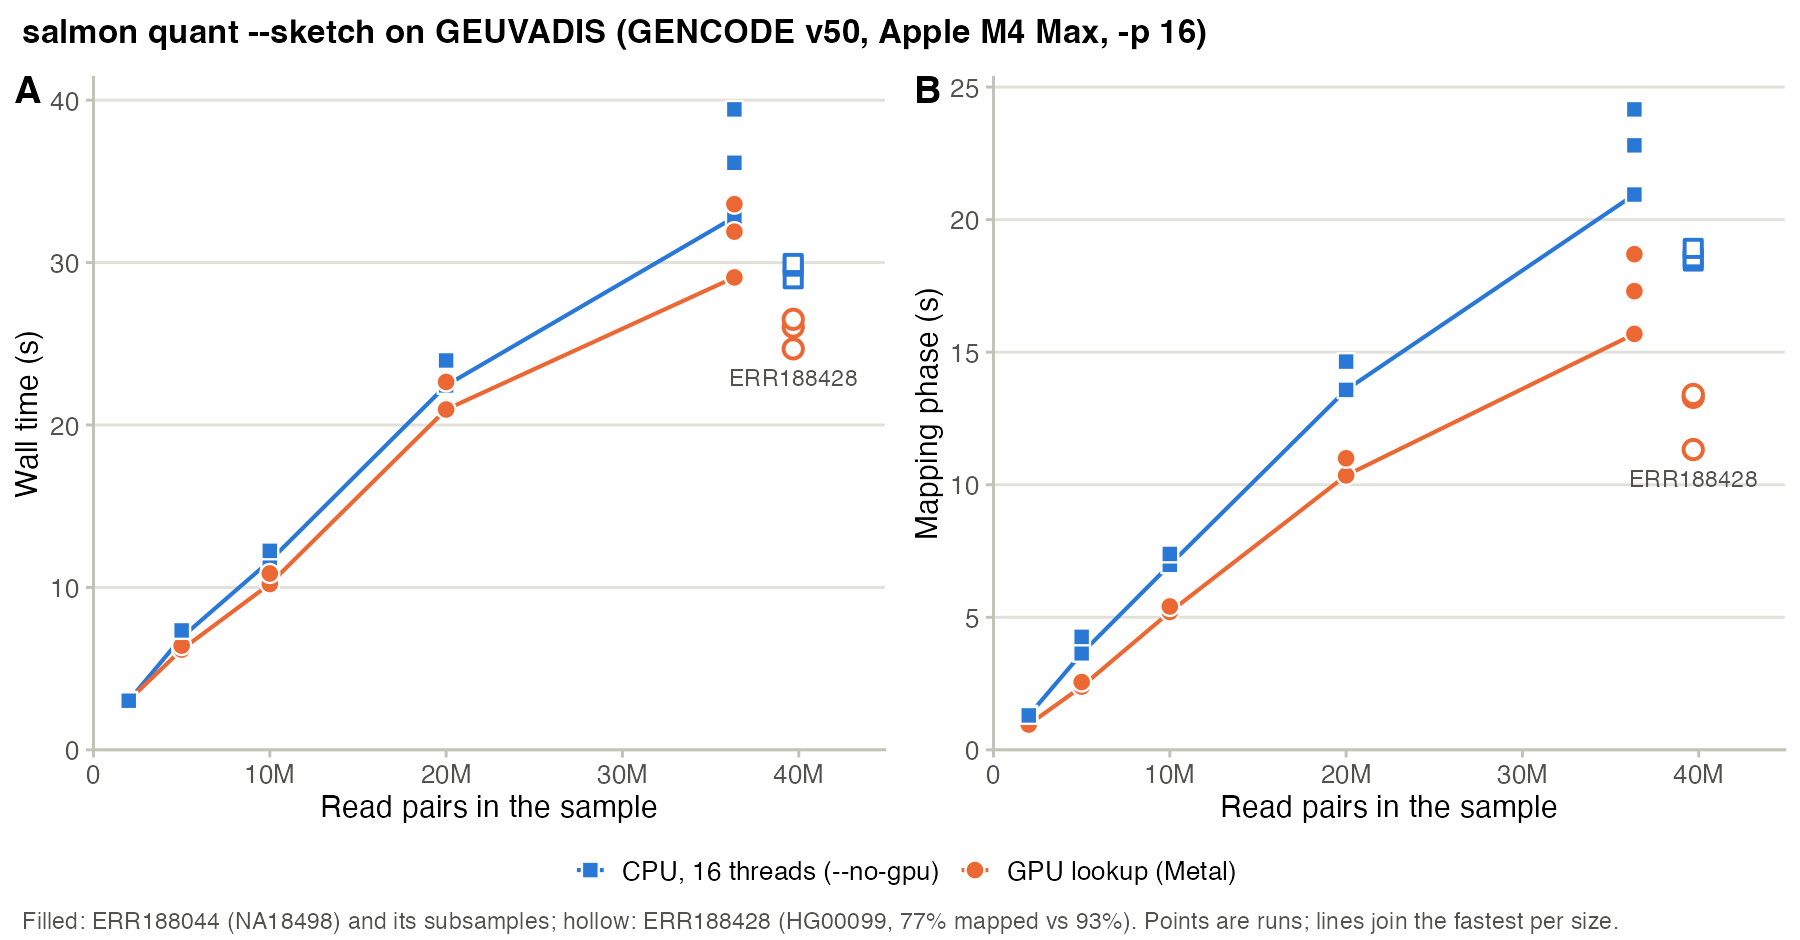
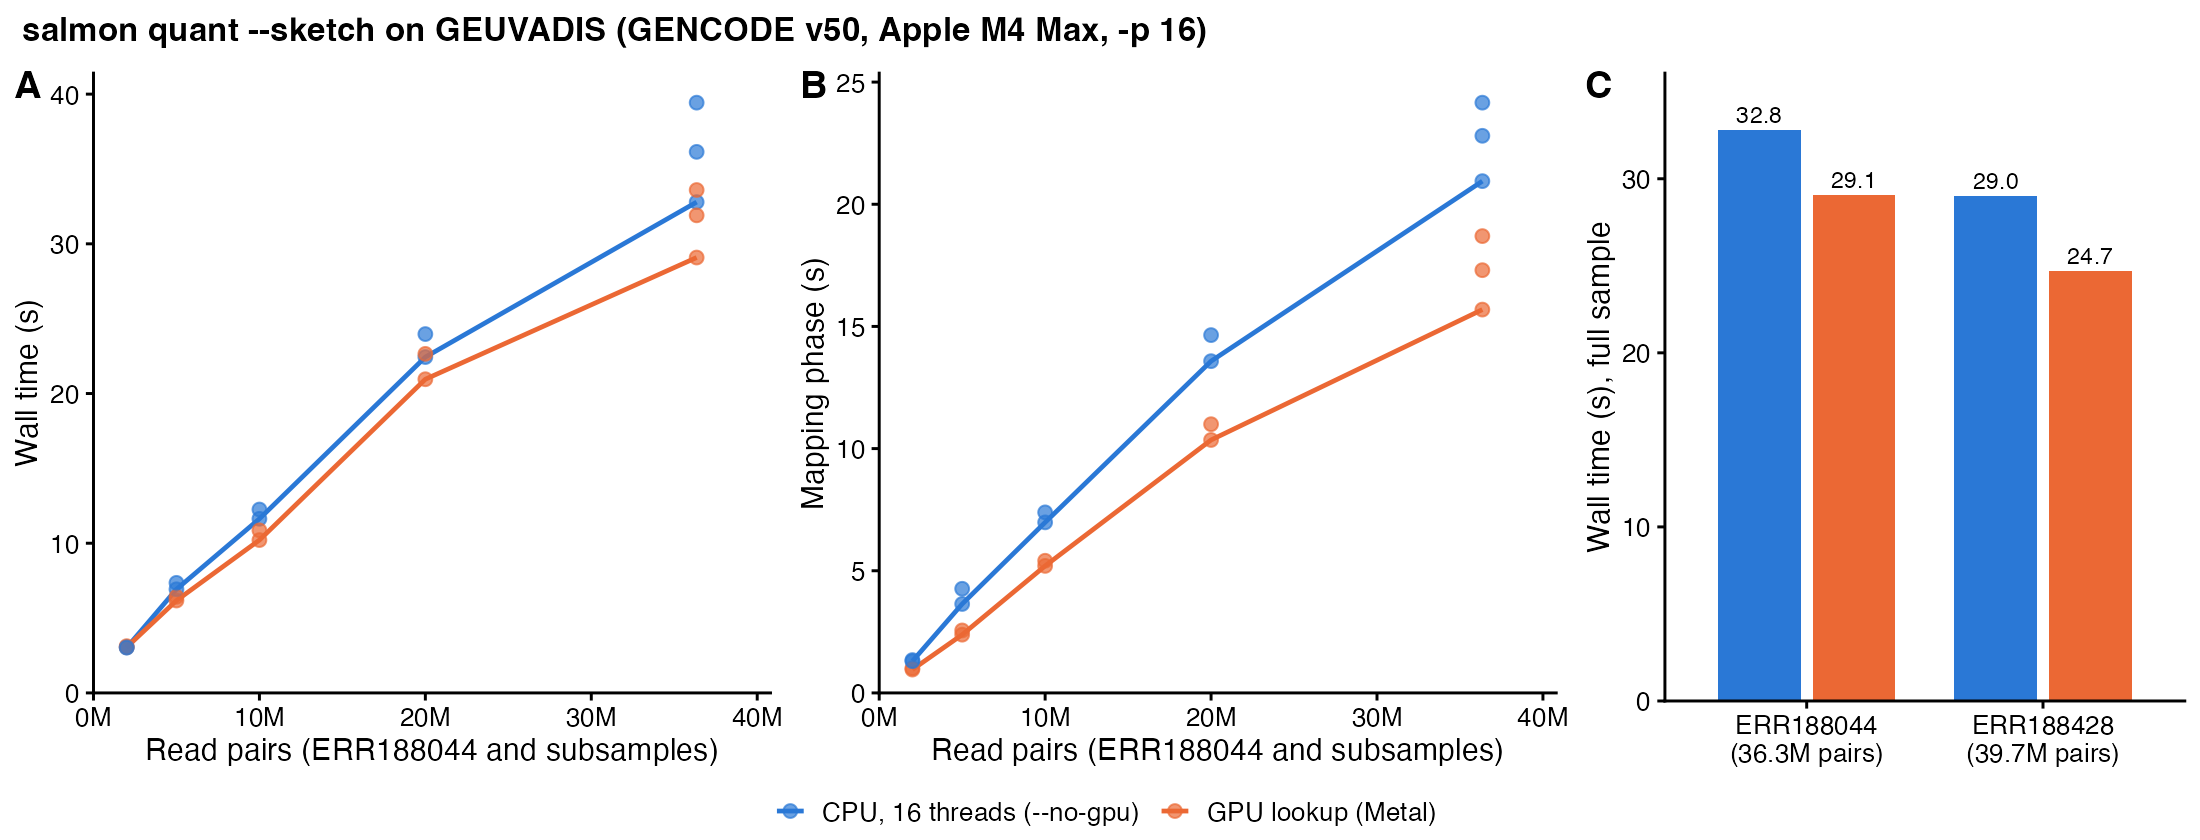
docs(gpu): GEUVADIS figure in plain cowplot, full samples in their own panel

diff --git a/docs/em-architecture-and-optimization.md b/docs/em-architecture-and-optimization.md
@@ -873,8 +873,11 @@ on these problems the EM warm start also runs on the GPU.
 ![Wall time and mapping time against read pairs](benchmarks/gpu-sketch-geuvadis/gpu-sketch-geuvadis.png)
 
 The figure ([data](benchmarks/gpu-sketch-geuvadis/gpu-sketch-geuvadis.csv))
-follows kallisto-GPU's Figure 1: subsamples of ERR188044 (first 2, 5, 10 and
-20M pairs, recompressed with pigz) and the two full samples. Both curves still
+follows kallisto-GPU's Figure 1. Panels A and B use one sample, ERR188044, and
+its subsamples (first 2, 5, 10 and 20M pairs, recompressed with pigz); dots are
+runs, lines join the fastest run per size. Panel C compares the two full
+samples. ERR188428 is faster despite more pairs because fewer of its reads map
+(77% against 93%), so it is kept off the curve. Both curves still
 grow with the input, the GPU one more slowly: about 0.4 s per million pairs on
 the GPU path, where kallisto-GPU reports about 0.05 s. On ERR188044, the time
 outside the mapping phase is mostly the second (RAD) pass, 3.9 s, and the EM
